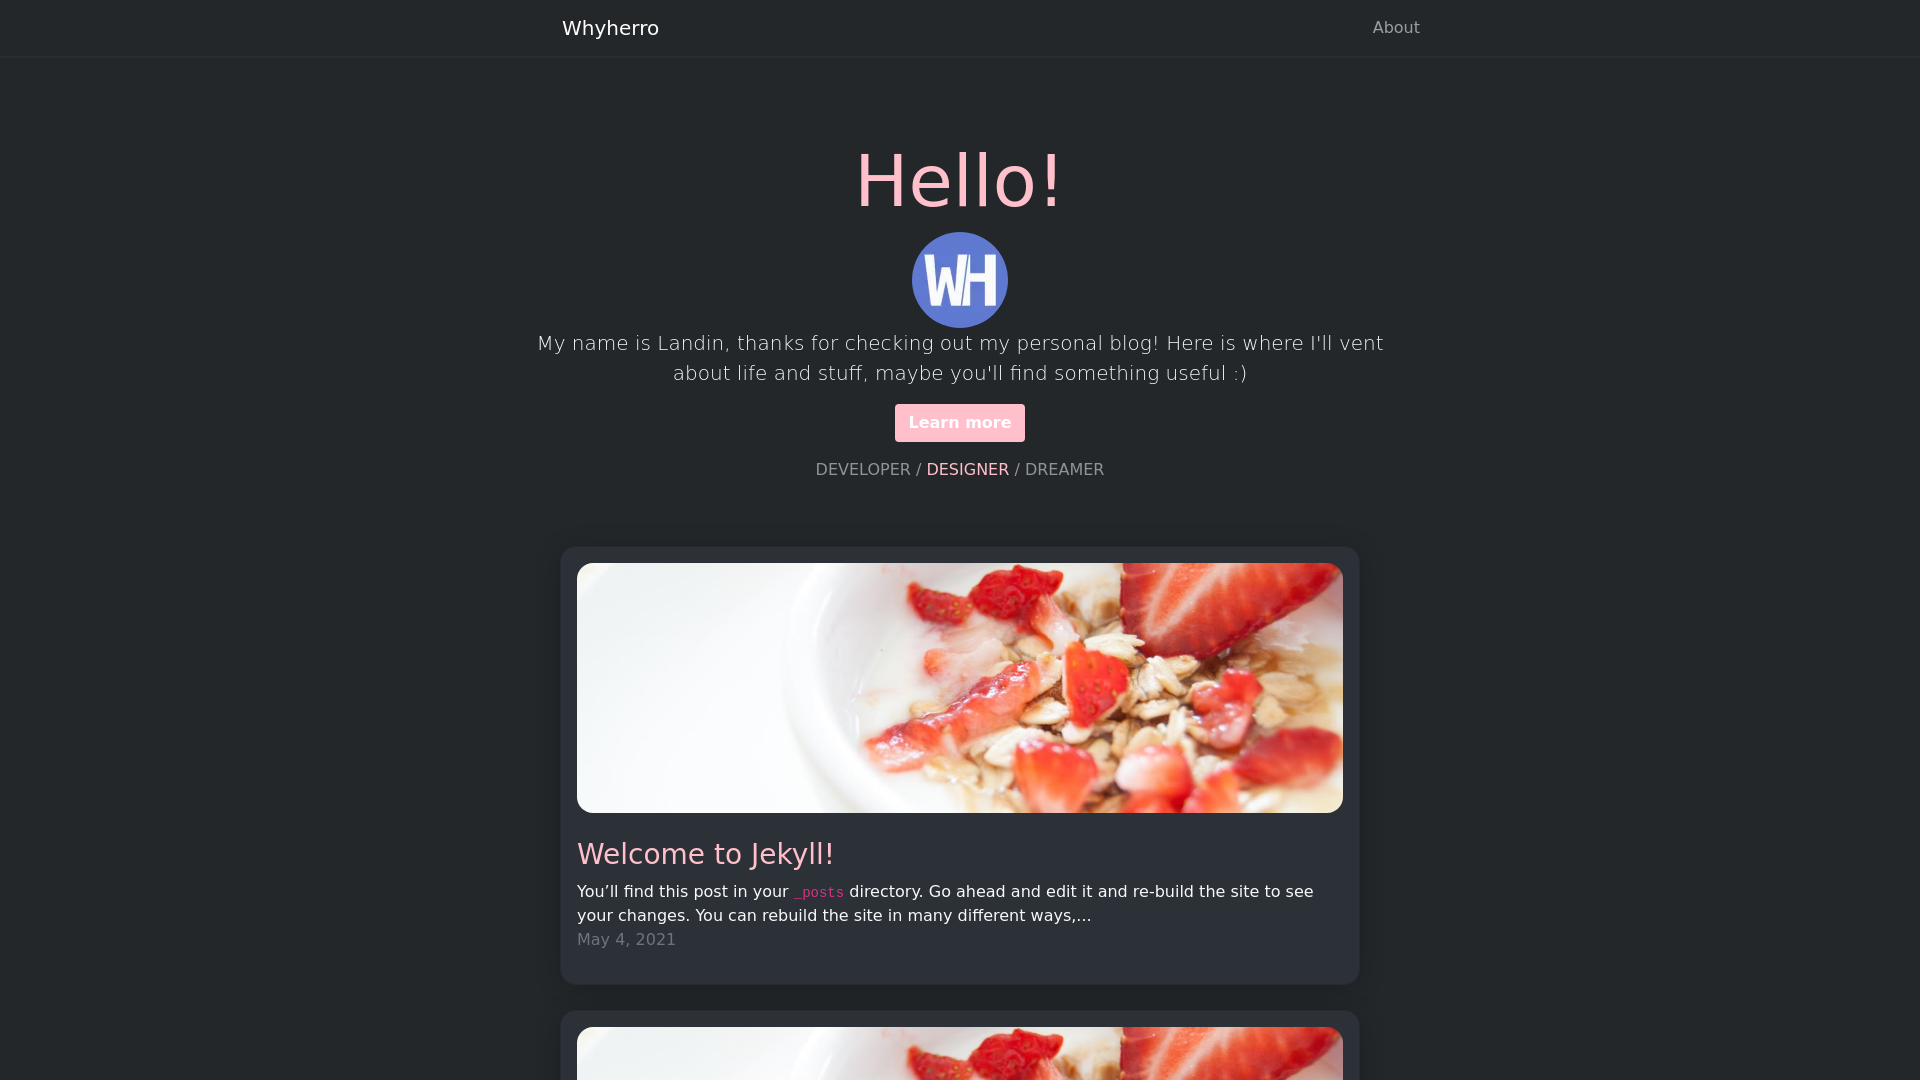
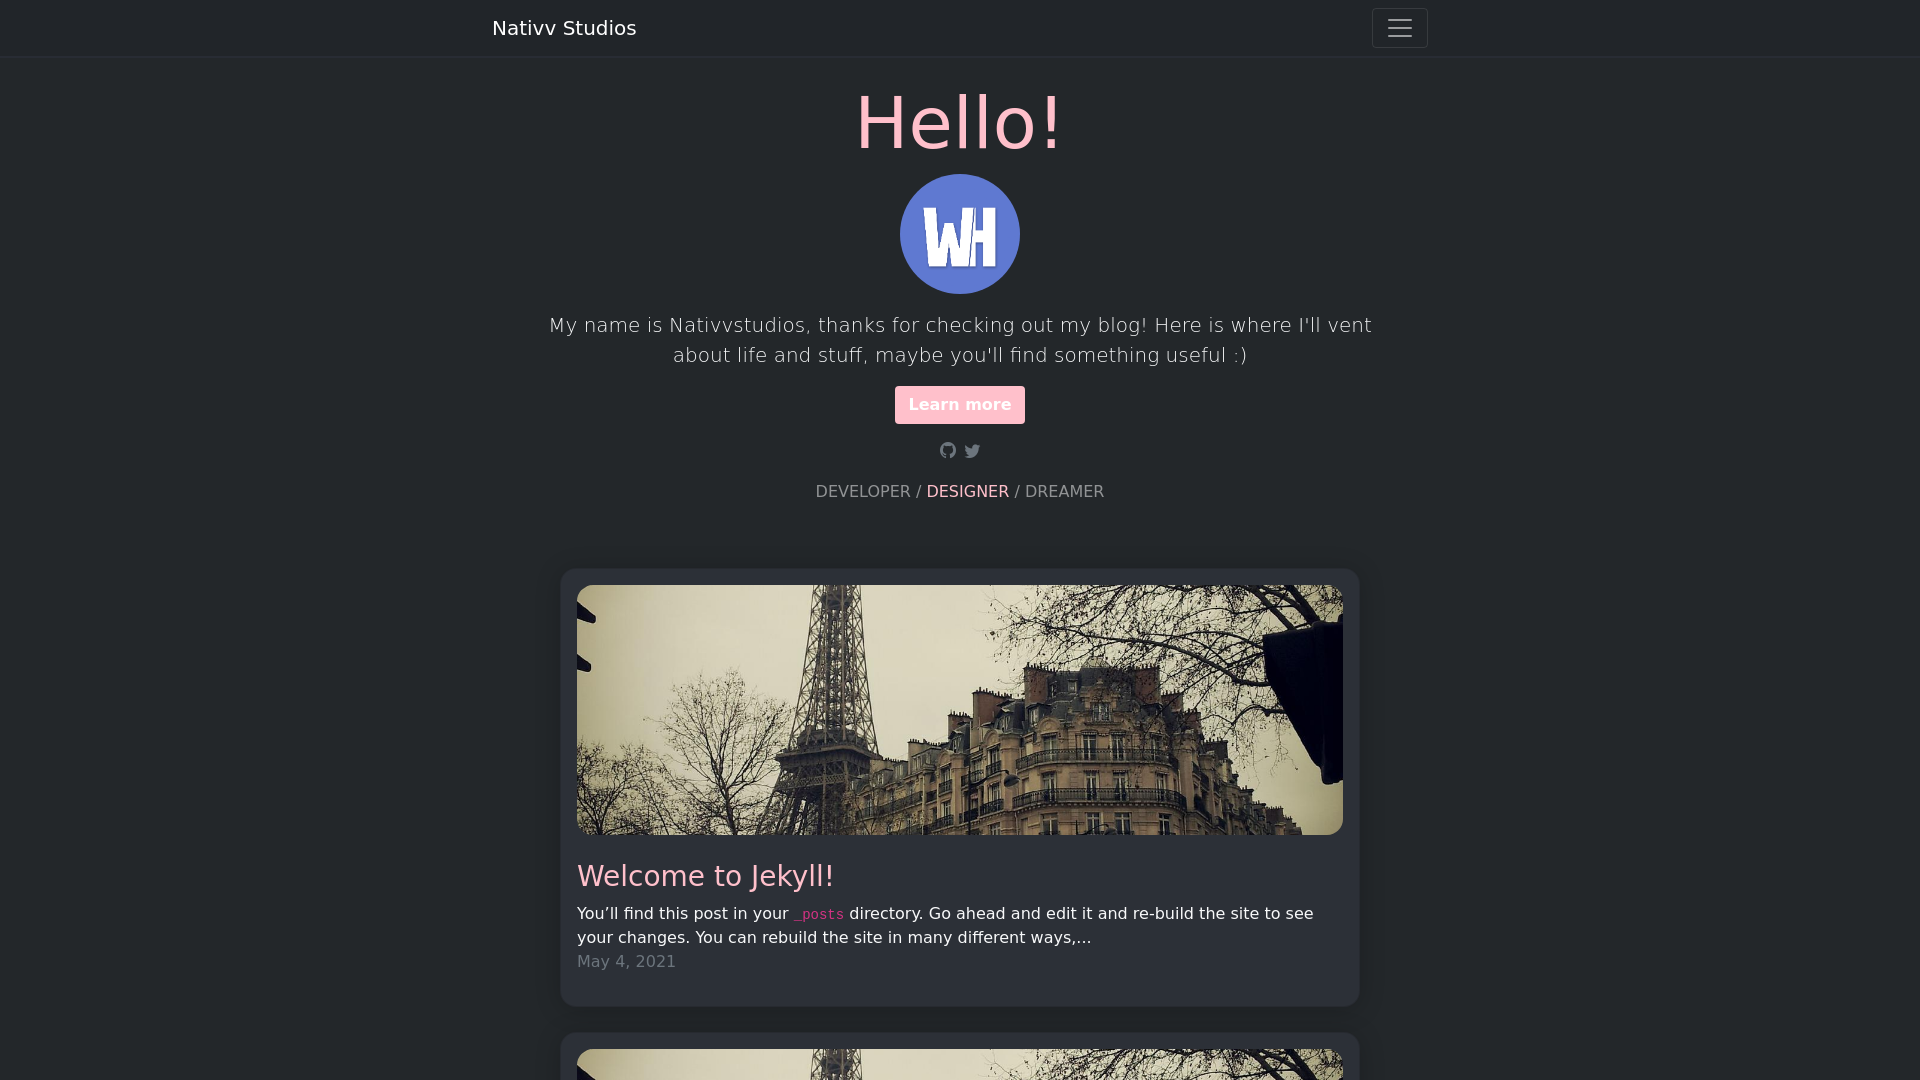
Changes: -Added image variable to post instead of in the markup -Cleaned up Sass

diff --git a/_sass/_custom-styles.scss b/_sass/_custom-styles.scss
@@ -123,7 +123,6 @@
         margin-bottom: 25px;
         
             img {
-                max-height: auto;
                 max-width:100%;
                 max-height:250px;
                 width: 100%;
@@ -131,6 +130,7 @@
                 border-radius: 1rem;
                 display: block;
                 object-fit: cover;
+                aspect-ratio: 1 / 1;
             }
         }
         
@@ -140,25 +140,15 @@
     }
 }
 
-
 .footer {
     background-color: var(--bs-not-quite-black);
     color: var(--bs-light);
 
     .leftSide {
         font-size: large;
-
     }
 
     .rightSide {
         font-size: large;
-
-    }
-
-    .feed-subscribe {
-
-        a {
-
-        }
     }
 }

diff --git a/_layouts/home.html b/_layouts/home.html
@@ -51,7 +51,7 @@ layout: default
               <div onclick="" class="card-body">
                 <div class="col-lg">
                   <div class="card-img">
-                    <img src="https://picsum.photos/1280/720" alt="" style="" class="img-fluid" >
+                    <img src="{{ post.img }}" alt="" style="" class="img-fluid" >
                   </div>
                 </div>
             <h3>

diff --git a/_posts/2016-05-20-super-long-article.md b/_posts/2016-05-20-super-long-article.md
@@ -2,6 +2,8 @@
 layout: post
 title: "Some articles are just so long they deserve a really long title to see if things will break well"
 categories: misc
+img: https://picsum.photos/1280/720?random=3
+
 ---
 
 Lorem ipsum dolor sit amet, consectetur adipiscing elit. Fusce bibendum neque eget nunc mattis eu sollicitudin enim tincidunt. Vestibulum lacus tortor, ultricies id dignissim ac, bibendum in velit. Proin convallis mi ac felis pharetra aliquam. Curabitur dignissim accumsan rutrum. In arcu magna, aliquet vel pretium et, molestie et arcu. Mauris lobortis nulla et felis ullamcorper bibendum. Phasellus et hendrerit mauris. Proin eget nibh a massa vestibulum pretium. Suspendisse eu nisl a ante aliquet bibendum quis a nunc. Praesent varius interdum vehicula. Aenean risus libero, placerat at vestibulum eget, ultricies eu enim. Praesent nulla tortor, malesuada adipiscing adipiscing sollicitudin, adipiscing eget est.

diff --git a/_posts/2016-05-19-super-short-article.md b/_posts/2016-05-19-super-short-article.md
@@ -2,6 +2,7 @@
 layout: post
 title: "Some articles are just so short that we have to make the footer stick"
 categories: misc
+img: https://picsum.photos/1280/720?random=1
 ---
 
 Lorem ipsum dolor sit amet, consectetur adipisicing elit, sed do eiusmod tempor incididunt ut labore et dolore magna aliqua. Ut enim ad minim veniam, quis nostrud exercitation ullamco laboris nisi ut aliquip ex ea commodo consequat. Duis aute irure dolor in reprehenderit in voluptate velit esse cillum dolore eu fugiat nulla pariatur. Excepteur sint occaecat cupidatat non proident, sunt in culpa qui officia deserunt mollit anim id est laborum.

diff --git a/_posts/2016-05-20-my-example-post.md b/_posts/2016-05-20-my-example-post.md
@@ -1,5 +1,7 @@
 ---
 layout: post
+img: https://picsum.photos/1280/720?random=2
+
 ---
 
 Eos eu docendi tractatos sapientem, brute option menandri in vix, quando vivendo accommodare te ius. Nec melius fastidii constituam id, viderer theophrastus ad sit, hinc semper periculis cum id. Noluisse postulant assentior est in, no choro sadipscing repudiandae vix. Vis in euismod delenit dignissim. Ex quod nostrum sit, suas decore animal id ius, nobis solet detracto quo te.

diff --git a/_posts/2016-05-20-this-post-demonstrates-post-content-styles.md b/_posts/2016-05-20-this-post-demonstrates-post-content-styles.md
@@ -1,6 +1,8 @@
 ---
 layout: post
 title: "This post demonstrates post content styles"
+img: https://picsum.photos/1280/720?random=4
+
 categories: junk
 author:
 - Bart Simpson
